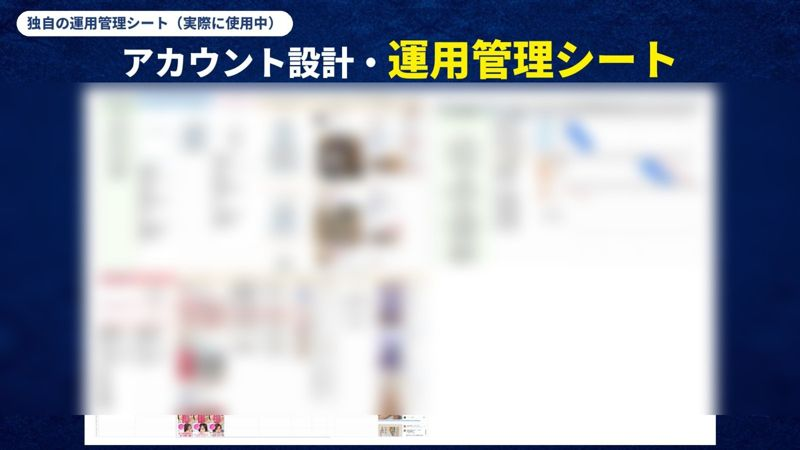
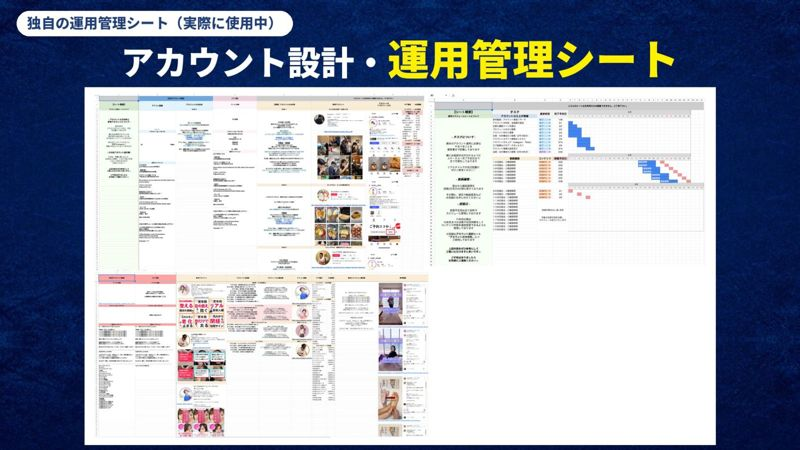
voice-biz：見出しの言い回しを変更、運用代行とシートを1つに、声を外す

Changed region(s): [[0.0938, 0.1556, 0.9062, 0.9333]]

diff --git a/voice-biz/index.html b/voice-biz/index.html
@@ -1,11 +1,11 @@
 <!doctype html>
 <html lang="ja"><head><meta charset="utf-8">
 <meta name="viewport" content="width=device-width,initial-scale=1,viewport-fit=cover">
-<title>実績とご相談いただいた方の声｜AIスマートLab</title>
-<meta name="description" content="AIスマートLabの法人実績・制作実績と、ご相談いただいた方の声。">
+<title>実績のご紹介｜AIスマートLab</title>
+<meta name="description" content="AIスマートLabの運用代行・制作の実績と、対応できるご相談。">
 <meta name="robots" content="noindex">
-<meta property="og:title" content="実績とご相談いただいた方の声｜AIスマートLab">
-<meta property="og:description" content="AIスマートLabの法人実績・制作実績と、ご相談いただいた方の声。">
+<meta property="og:title" content="実績のご紹介｜AIスマートLab">
+<meta property="og:description" content="AIスマートLabの運用代行・制作の実績と、対応できるご相談。">
 <meta property="og:image" content="https://susumu-sapo.github.io/benkyoukai-lp/voice-biz/img/b_016.jpg">
 <link rel="preconnect" href="https://fonts.googleapis.com"><link rel="preconnect" href="https://fonts.gstatic.com" crossorigin>
 <link href="https://fonts.googleapis.com/css2?family=Inter:wght@800;900&family=Noto+Sans+JP:wght@500;700;900&display=swap" rel="stylesheet">
@@ -133,6 +133,7 @@ footer b{display:block;font:900 13px var(--num);letter-spacing:.24em;margin-bott
 .msgbox .cp{font-size:26px;font-weight:900;line-height:1.5}.msgbox .nm{margin-top:14px;font-size:18px;font-weight:900}.msgbox .nm small{display:block;font:800 12px var(--num);letter-spacing:.2em;color:var(--sub)}
 .msgbox .og{font-size:13px;color:var(--sub);font-weight:700}
 .end{margin-top:8px;padding:22px 18px;text-align:center;font-size:17px;font-weight:900;line-height:1.7}
+.hero h1 br.sp{display:none}@media (max-width:699px){.hero h1 br.sp{display:inline}}
 .sub4{margin:26px 0 12px;font-size:18px;font-weight:900}
 </style></head>
 <body>
@@ -142,7 +143,7 @@ footer b{display:block;font:900 13px var(--num);letter-spacing:.24em;margin-bott
 
 <header class="hero">
   <span class="chip">AI SMART LAB</span>
-  <h1>AI×SNSで、<wbr><span class="gt">結果を出して<wbr>きました。</span></h1>
+  <h1>SNSと動画で、<br><span class="gt">御社の発信を<br class="sp">形にします。</span></h1>
   <div class="stats">
     <div class="st glass"><div class="v gt">20万人</div><div class="l">SNS総フォロワー</div></div>
     <div class="st glass"><div class="v gt">8個以上</div><div class="l">万垢<wbr>（1万フォロワー以上）</div></div>
@@ -163,22 +164,26 @@ footer b{display:block;font:900 13px var(--num);letter-spacing:.24em;margin-bott
 </section>
 
 <section>
-  <span class="chip">BUSINESS</span>
-  <h2>法人の実績</h2>
+  <span class="chip">SERVICE</span>
+  <h2>様々なご相談に<wbr>対応できます</h2>
   <p class="hint">画像を押すと、<wbr>大きく読めます</p>
-  <h3 class="sub4">SNS・動画・写真の実績</h3>
   <div class="grid wide">
-    <div class="it glass" data-img="img/s_004.jpg"><img loading="lazy" src="img/s_004_s.jpg" alt="法人の実績"></div>
-    <div class="it glass" data-img="img/s_005.jpg"><img loading="lazy" src="img/s_005_s.jpg" alt="法人の実績"></div>
-    <div class="it glass" data-img="img/s_006.jpg"><img loading="lazy" src="img/s_006_s.jpg" alt="法人の実績"></div>
-    <div class="it glass" data-img="img/s_007.jpg"><img loading="lazy" src="img/s_007_s.jpg" alt="法人の実績"></div>
-    <div class="it glass" data-img="img/s_008.jpg"><img loading="lazy" src="img/s_008_s.jpg" alt="法人の実績"></div>
-    <div class="it glass" data-img="img/s_009.jpg"><img loading="lazy" src="img/s_009_s.jpg" alt="法人の実績"></div>
-    <div class="it glass" data-img="img/s_010.jpg"><img loading="lazy" src="img/s_010_s.jpg" alt="法人の実績"></div>
-    <div class="it glass" data-img="img/s_011.jpg"><img loading="lazy" src="img/s_011_s.jpg" alt="法人の実績"></div>
-    <div class="it glass" data-img="img/s_012.jpg"><img loading="lazy" src="img/s_012_s.jpg" alt="法人の実績"></div>
+    <div class="it glass" data-img="img/s_004.jpg"><img loading="lazy" src="img/s_004_s.jpg" alt="対応できるご相談"></div>
+    <div class="it glass" data-img="img/s_005.jpg"><img loading="lazy" src="img/s_005_s.jpg" alt="対応できるご相談"></div>
+    <div class="it glass" data-img="img/s_006.jpg"><img loading="lazy" src="img/s_006_s.jpg" alt="対応できるご相談"></div>
+    <div class="it glass" data-img="img/s_007.jpg"><img loading="lazy" src="img/s_007_s.jpg" alt="対応できるご相談"></div>
+    <div class="it glass" data-img="img/s_008.jpg"><img loading="lazy" src="img/s_008_s.jpg" alt="対応できるご相談"></div>
+    <div class="it glass" data-img="img/s_009.jpg"><img loading="lazy" src="img/s_009_s.jpg" alt="対応できるご相談"></div>
+    <div class="it glass" data-img="img/s_010.jpg"><img loading="lazy" src="img/s_010_s.jpg" alt="対応できるご相談"></div>
+    <div class="it glass" data-img="img/s_011.jpg"><img loading="lazy" src="img/s_011_s.jpg" alt="対応できるご相談"></div>
+    <div class="it glass" data-img="img/s_012.jpg"><img loading="lazy" src="img/s_012_s.jpg" alt="対応できるご相談"></div>
   </div>
-  <h3 class="sub4">運用代行の実績</h3>
+</section>
+
+<section>
+  <span class="chip">BUSINESS</span>
+  <h2>運用代行の実績と<wbr>実際に使っているシート</h2>
+  <p class="hint">画像を押すと、<wbr>大きく読めます</p>
   <div class="grid wide">
     <div class="it glass" data-img="img/b_013.jpg"><img loading="lazy" src="img/b_013_s.jpg" alt="運用代行の実績"></div>
     <div class="it glass" data-img="img/b_014.jpg"><img loading="lazy" src="img/b_014_s.jpg" alt="運用代行の実績"></div>
@@ -187,14 +192,11 @@ footer b{display:block;font:900 13px var(--num);letter-spacing:.24em;margin-bott
     <div class="it glass" data-img="img/b_017.jpg"><img loading="lazy" src="img/b_017_s.jpg" alt="運用代行の実績"></div>
     <div class="it glass" data-img="img/b_018.jpg"><img loading="lazy" src="img/b_018_s.jpg" alt="運用代行の実績"></div>
     <div class="it glass" data-img="img/b_019.jpg"><img loading="lazy" src="img/b_019_s.jpg" alt="運用代行の実績"></div>
-  </div>
-  <h3 class="sub4">実際に使っている運用シート・制作物</h3>
-  <div class="grid wide">
-    <div class="it glass" data-img="img/b_020.jpg"><img loading="lazy" src="img/b_020_s.jpg" alt="運用シート・制作物"></div>
-    <div class="it glass" data-img="img/b_021.jpg"><img loading="lazy" src="img/b_021_s.jpg" alt="運用シート・制作物"></div>
-    <div class="it glass" data-img="img/b_022.jpg"><img loading="lazy" src="img/b_022_s.jpg" alt="運用シート・制作物"></div>
-    <div class="it glass" data-img="img/b_023.jpg"><img loading="lazy" src="img/b_023_s.jpg" alt="運用シート・制作物"></div>
-    <div class="it glass" data-img="img/b_024.jpg"><img loading="lazy" src="img/b_024_s.jpg" alt="運用シート・制作物"></div>
+    <div class="it glass" data-img="img/b_020.jpg"><img loading="lazy" src="img/b_020_s.jpg" alt="運用代行の実績"></div>
+    <div class="it glass" data-img="img/b_021.jpg"><img loading="lazy" src="img/b_021_s.jpg" alt="運用代行の実績"></div>
+    <div class="it glass" data-img="img/b_022.jpg"><img loading="lazy" src="img/b_022_s.jpg" alt="運用代行の実績"></div>
+    <div class="it glass" data-img="img/b_023.jpg"><img loading="lazy" src="img/b_023_s.jpg" alt="運用代行の実績"></div>
+    <div class="it glass" data-img="img/b_024.jpg"><img loading="lazy" src="img/b_024_s.jpg" alt="運用代行の実績"></div>
   </div>
 </section>
 
@@ -238,21 +240,10 @@ footer b{display:block;font:900 13px var(--num);letter-spacing:.24em;margin-bott
 </section>
 
 <section>
-  <span class="chip">VOICE</span>
-  <h2>仕事・受注に<wbr>つながった方の声</h2>
-  <p class="hint">画像を押すと、<wbr>大きく読めます</p>
-  <div class="grid wide">
-    <div class="it glass" data-img="img/g11.jpg"><img loading="lazy" src="img/g11_s.jpg" alt="サポートを受けた方の成果"></div>
-    <div class="it glass" data-img="img/g13.jpg"><img loading="lazy" src="img/g13_s.jpg" alt="サポートを受けた方の成果"></div>
-    <div class="it glass" data-img="img/g19.jpg"><img loading="lazy" src="img/g19_s.jpg" alt="サポートを受けた方の成果"></div>
-  </div>
-</section>
-
-<section>
   <div class="end glass">当日、<wbr>御社の状況に合わせて<wbr>お話しします</div>
 </section>
 
-<footer><b>AI SMART LAB</b>AIスマートLabの実績と<wbr>ご相談いただいた方の声です</footer>
+<footer><b>AI SMART LAB</b>AIスマートLabの実績のご紹介です</footer>
 </div>
 
 <div id="zoom"><div class="tip">指で広げると拡大できます</div><button class="x" aria-label="閉じる">×</button><div class="in"></div></div>
